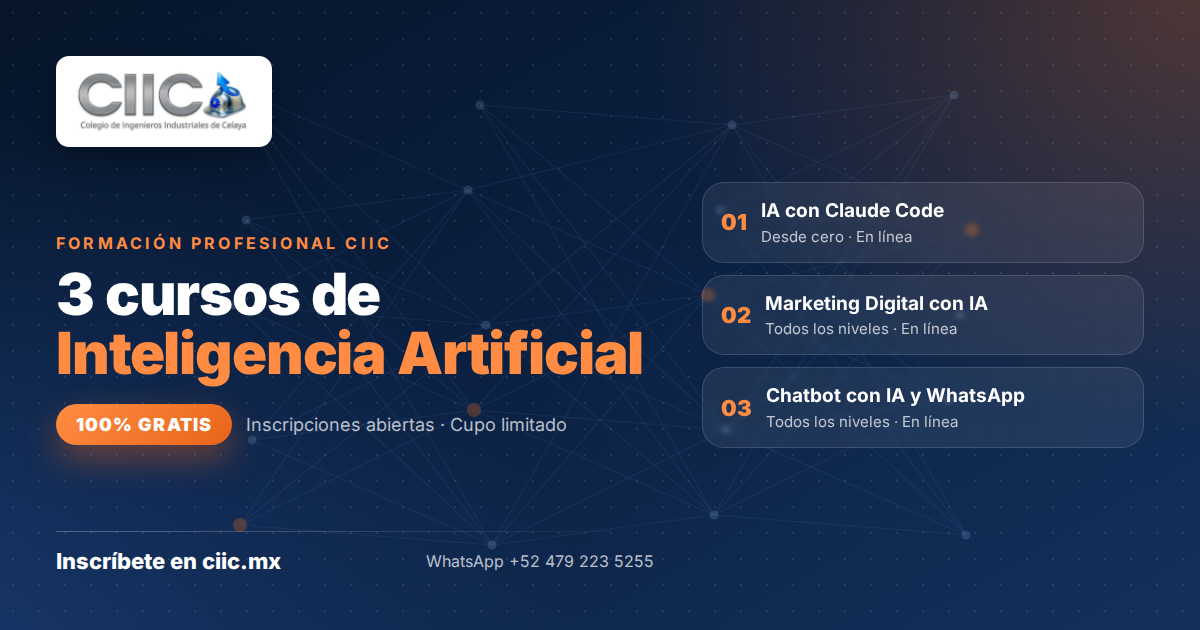
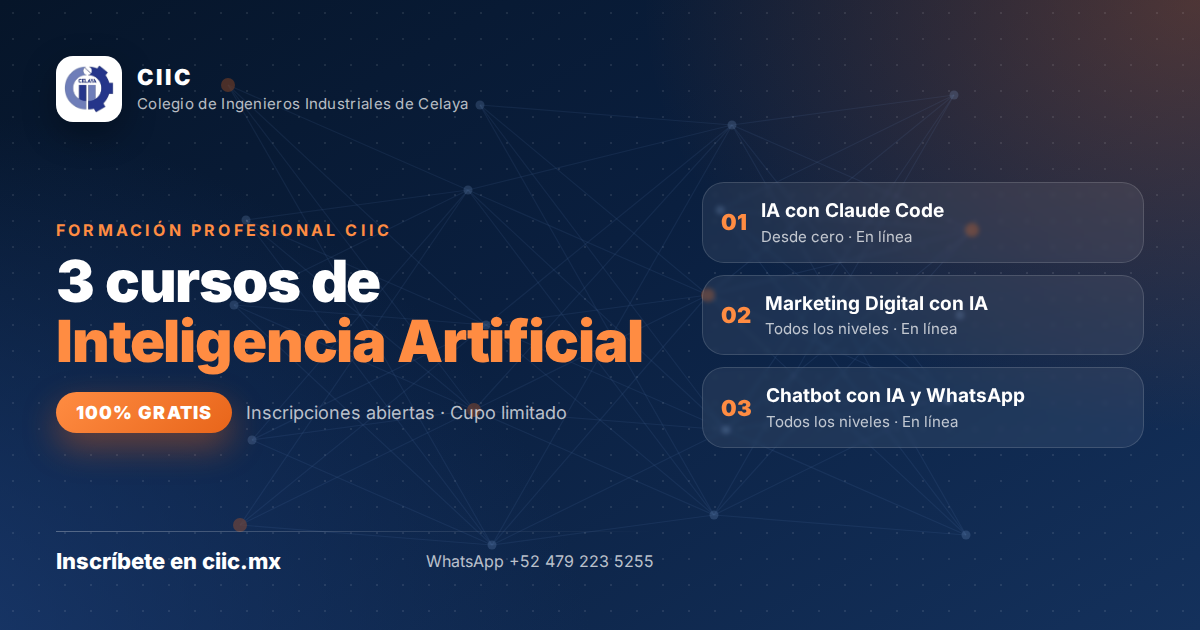
feat(promo): usar el emblema oficial del CIIC en las piezas graficas
Agrega public/images/ciic-emblema.png, el emblema con transparencia real, y
reemplaza el lockup de marca: emblema sobre tarjeta blanca mas el nombre en
Inter, en lugar del logotipo cromado en JPEG que se veia pixeleado en tamano
chico. Reajusta el ritmo vertical de la pieza 9:16 para el nuevo lockup.

Claude-Session: https://claude.ai/code/session_01CBe4QPccBFTXzonB63kjgr

Changed region(s): [[0.0308, 0.3317, 0.555, 0.7238], [0.0308, 0.0905, 0.4008, 0.2413]]

diff --git a/scripts/promo/README.md b/scripts/promo/README.md
@@ -48,10 +48,16 @@ el texto.
 
 ## Nota sobre los logotipos
 
-Se usa `public/images/ciic-logo-full.png` porque es el único archivo de marca
-legible sobre fondo oscuro (se coloca dentro de una tarjeta blanca).
+Se usa `public/images/ciic-emblema.png`: el emblema oficial con transparencia
+real, colocado dentro de una tarjeta blanca (que es como se usa la marca) y
+acompañado del nombre en Inter.
 
-`ciic-logo.png` y `ciic-logo-emblema.png` **traen el patrón de cuadros grises de
-transparencia rasterizado dentro del propio archivo** (son PNG sin canal alfa),
-por lo que no se pueden usar sobre fondos de color. Conviene reexportarlos con
-transparencia real.
+Cuidado con los otros archivos del repo:
+
+- `ciic-logo.png` y `ciic-logo-emblema.png` **traen el patrón de cuadros de
+  transparencia rasterizado dentro del propio archivo** (son PNG sin canal
+  alfa), así que muestran un damero sobre cualquier fondo de color. Hoy
+  `ciic-logo-emblema.png` se usa en el navbar y el footer del sitio, sobre el
+  fondo azul marino.
+- `ciic-logo-full.png` y `ciic-logo-emblema-original.png` son JPEG con extensión
+  `.png`; solo funcionan sobre blanco.
